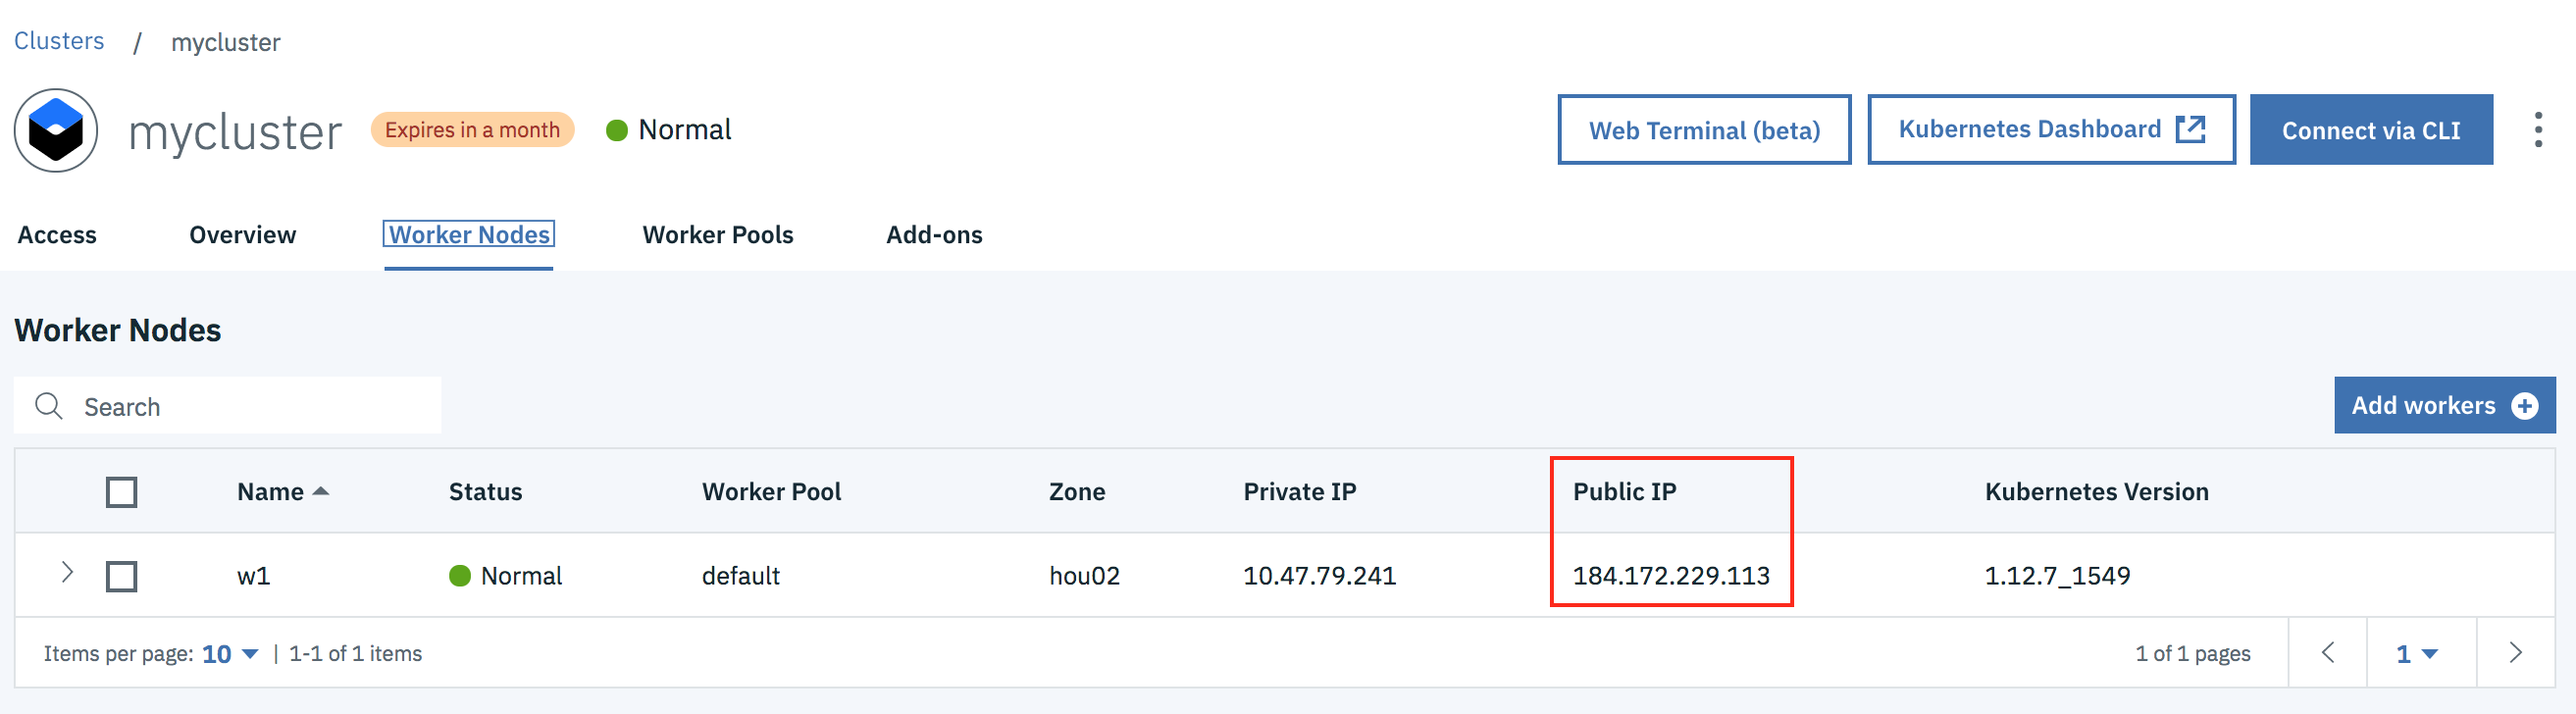
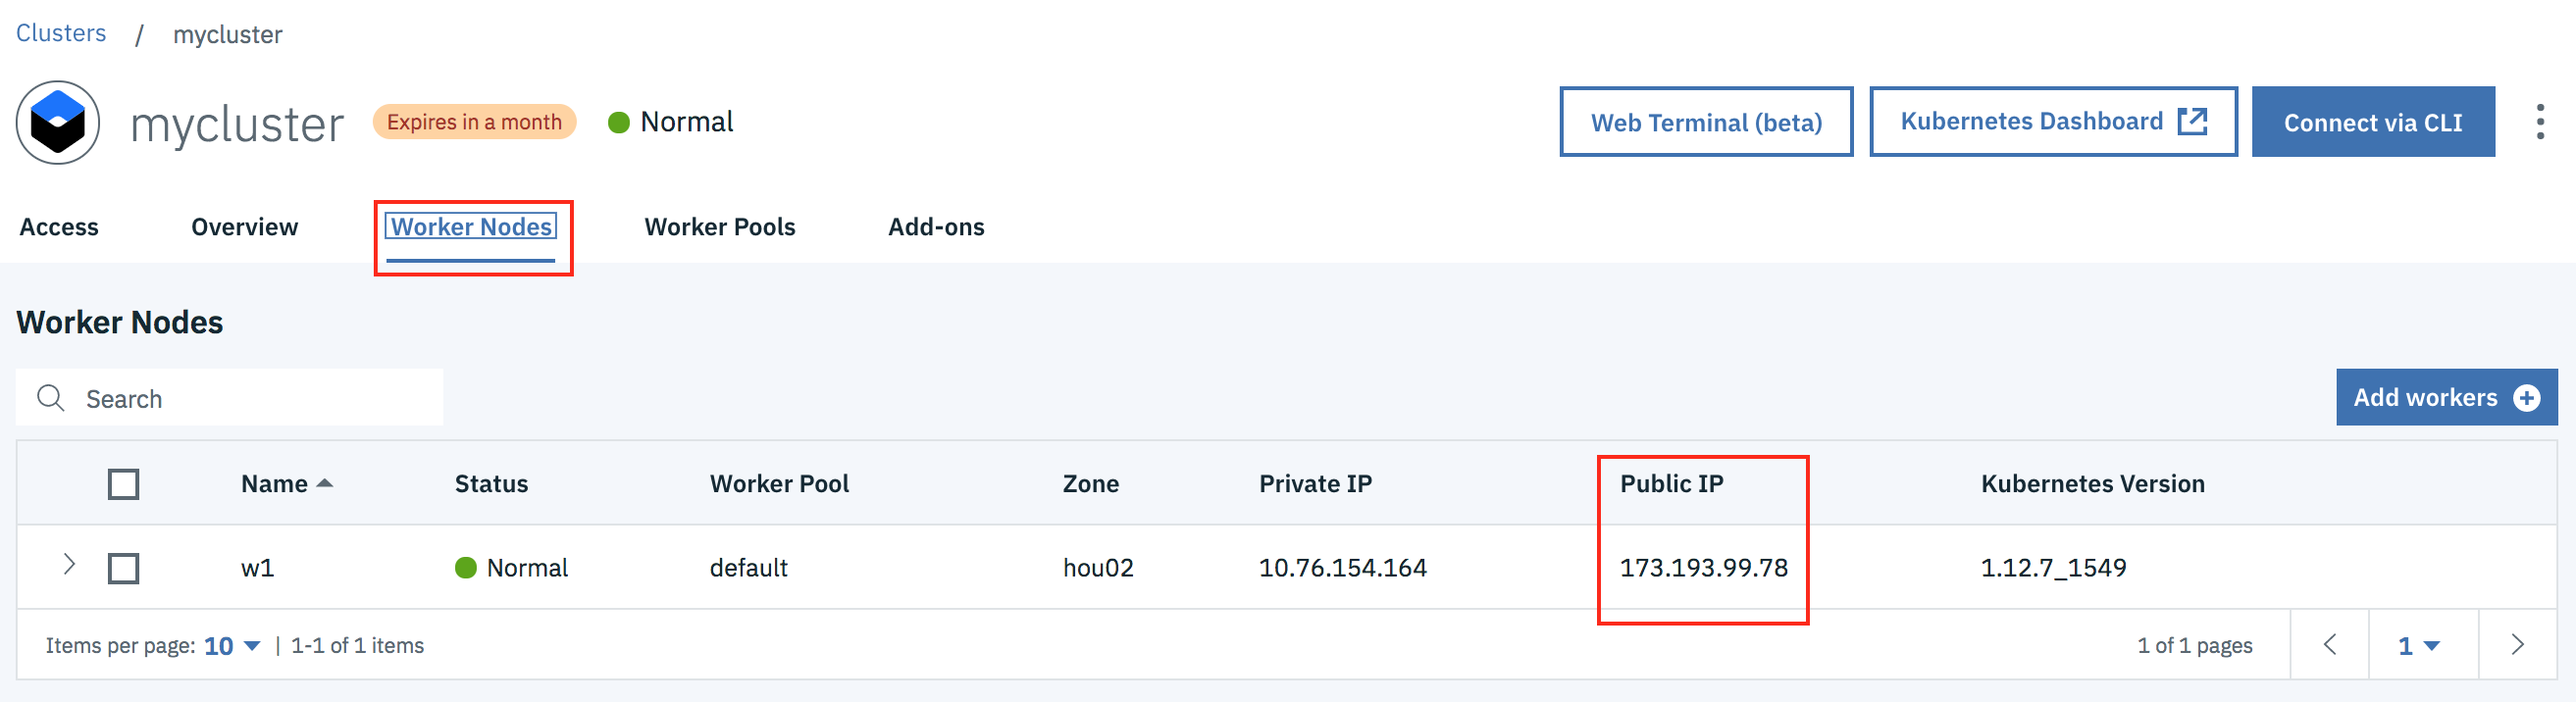
fixed demo app name in README.md

diff --git a/README.md b/README.md
@@ -95,17 +95,17 @@ spec:
 
 ![Upload deployment file](./images/create-deployment-textarea.png)
 
-- Чтобы убедиться, что процесс развертывания приложения произведен, можно перейти в раздел `Pods`, где отображаются все развернутые приложения в кластере. Ваше приложение будет называться `hello-kubernetes-####-####` и его `Status` должен иметь значение `Running`.
+- Чтобы убедиться, что процесс развертывания приложения произведен, можно перейти в раздел `Pods`, где отображаются все развернутые приложения в кластере. Ваше приложение будет называться `hello-k8s-####-####` и его `Status` должен иметь значение `Running`.
 
 ![pods](./images/pods.png)
 
 
-- Чтобы открыть приложение, необходимо узнать публичный IP адрес вашего кластера. Для этого вернитесь в консоль IBM Cloud и откройте страницу созданного вами кластера. Публичный IP адрес указан на вкладке `Worker Nodes` как на картинке (рис.6).
+- Чтобы открыть приложение, необходимо узнать публичный IP адрес вашего кластера. Для этого вернитесь в консоль [IBM Cloud Kubernetes Cluster](https://cloud.ibm.com/kubernetes/clusters) и откройте страницу созданного вами кластера `mycluster`. Публичный IP адрес указан на вкладке `Worker Nodes` как на картинке (рис.6).
 
 ![Cluster public IP](./images/cluster-public-ip.png)
 Рисунок 6.
 
-Приложение доступно по публичному IP адресу и соответствующему порту, например, в данном случае по адресу http://184.172.229.113:31000. Вам нужно указать IP адрес своего кластера вместо <Public_IP> в адресе вызова приложения: http://<Public_IP>:31000
+Приложение доступно по публичному IP адресу и соответствующему порту, например, в данном случае по адресу http://173.193.99.78:31000. Вам нужно указать IP адрес своего кластера вместо <Public_IP> в адресе вызова приложения: http://<Public_IP>:31000
 
 ![app](./images/app.png)
 
